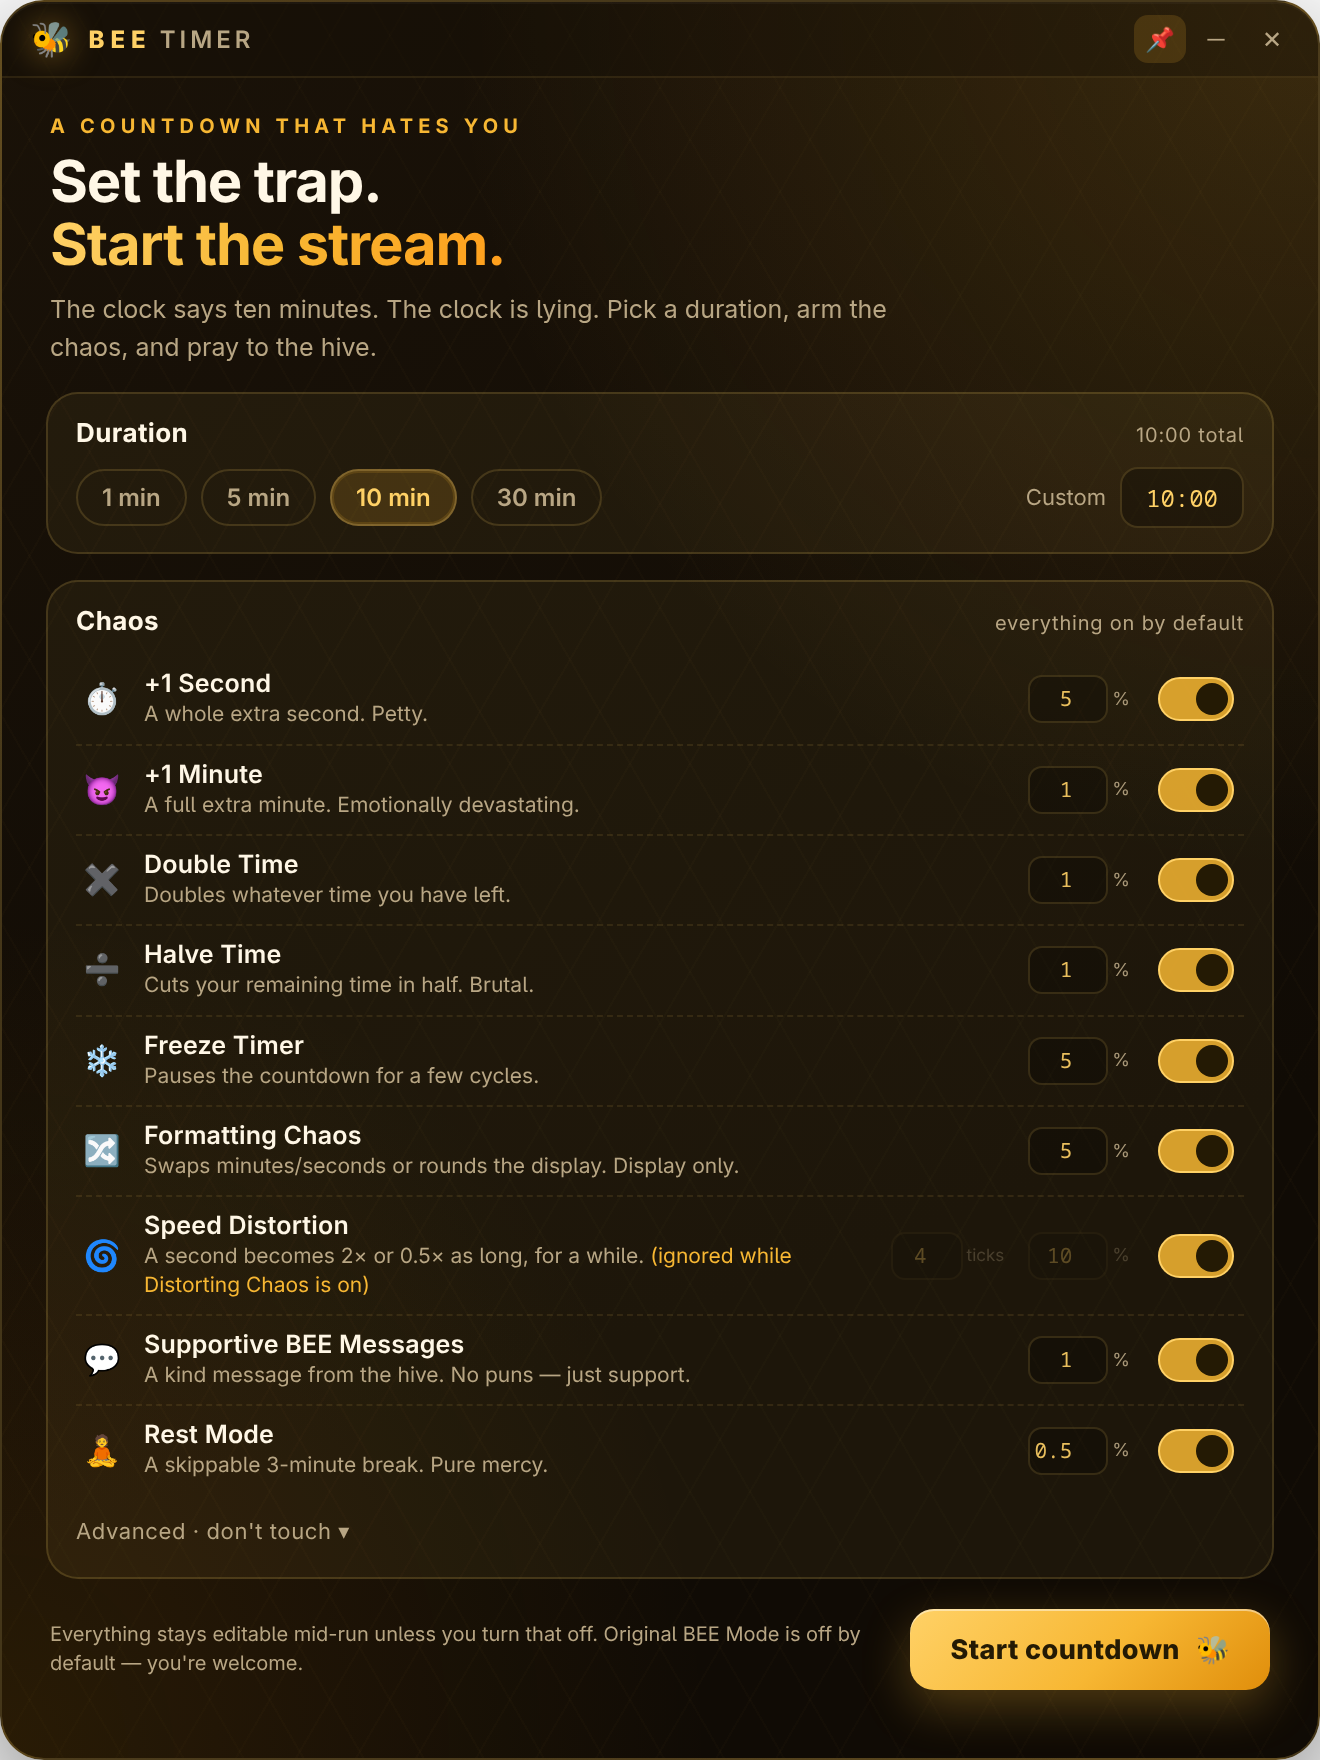
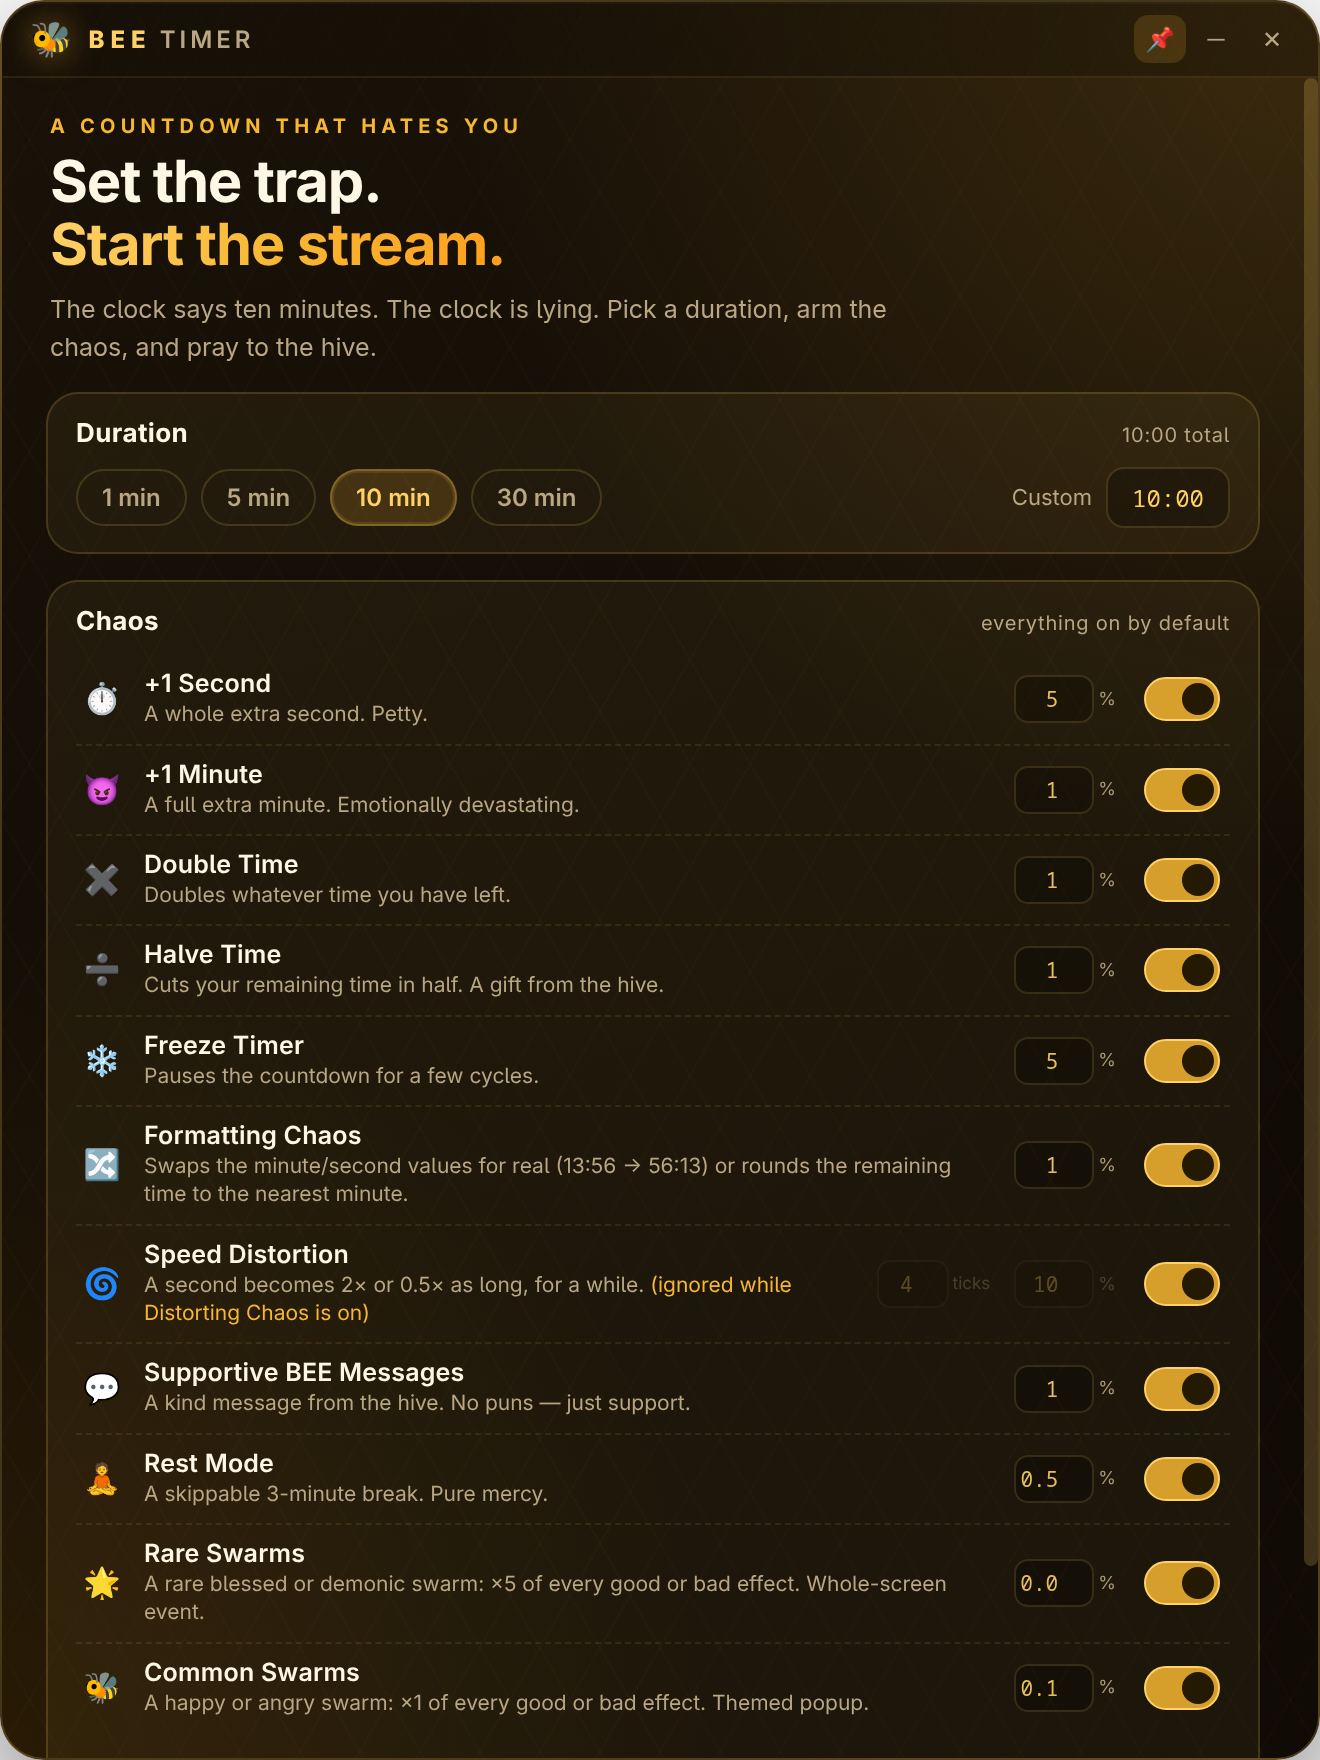
fix: formatting chaos default 1%/tick + v1->v2 migration; v0.1.9
Real swap/round at 5% per tick inflated the timer far too aggressively.
New default is 1%; existing schema-v1 configs still on the old 5% default are
migrated once (custom v2 values preserved). Added migration tests and refreshed
screenshots. 24/24 tests pass.

diff --git a/src/main/config-store.js b/src/main/config-store.js
@@ -11,7 +11,7 @@ const { app } = require('electron');
  * into the Advanced section by design.
  */
 const DEFAULTS = Object.freeze({
-  schemaVersion: 1,
+  schemaVersion: 2,
   onboarded: false,
   durationMs: 10 * 60 * 1000,
   tickBaseMs: 1000,
@@ -24,7 +24,7 @@ const DEFAULTS = Object.freeze({
     doubleTime:     { enabled: true,  chancePct: 1 },
     halveTime:      { enabled: true,  chancePct: 1 },
     freeze:         { enabled: true,  chancePct: 5, cycles: 5 },
-    formatChaos:    { enabled: true,  chancePct: 5, swapMinSec: true, roundNearestMinute: true, durationTicks: 3 },
+    formatChaos:    { enabled: true,  chancePct: 1, swapMinSec: true, roundNearestMinute: true, durationTicks: 3 },
     speedDistortion:{ enabled: true,  chancePct: 10, multipliers: [0.5, 2], durationTicks: 4 },
     distortingChaos:{ enabled: true,  chancePct: 1 },
     windowChaos:    { enabled: false, chancePct: 1, marginPx: 40 },
@@ -108,13 +108,20 @@ function sanitizeConfig(input) {
   // Distorting Chaos only makes sense while Speed Distortion is enabled.
   if (!features.speedDistortion.enabled) features.distortingChaos.enabled = false;
 
+  // v1 -> v2: Formatting Chaos defaulted to 5% per tick, which made the real
+  // swap/round fire far too often. Migrate configs that still carry the old
+  // default; a deliberately customised value in a v2 config is preserved.
+  if (Number(raw.schemaVersion || 1) < 2 && features.formatChaos.chancePct === 5) {
+    features.formatChaos.chancePct = 1;
+  }
+
   const appearance = raw.appearance && typeof raw.appearance === 'object' ? raw.appearance : {};
   const win = raw.window && typeof raw.window === 'object' ? raw.window : {};
   const x = typeof win.x === 'number' && Number.isFinite(win.x) ? Math.round(win.x) : null;
   const y = typeof win.y === 'number' && Number.isFinite(win.y) ? Math.round(win.y) : null;
 
   return {
-    schemaVersion: 1,
+    schemaVersion: 2,
     onboarded: bool(raw.onboarded, DEFAULTS.onboarded),
     durationMs: Math.round(num(raw.durationMs, 5000, DEFAULTS.maxRemainingMs, DEFAULTS.durationMs)),
     tickBaseMs: 1000,

diff --git a/README.md b/README.md
@@ -45,7 +45,7 @@ Every feature is independently toggleable and has a per-tick probability you can
 | ✖ Double Time | 1% | **On** | Doubles remaining time (capped at 24h). |
 | ➗ Halve Time | 1% | **On** | Cuts remaining time in half — a welcome mercy. |
 | ❄ Freeze Timer | 5% | **On** | Pauses the countdown for 5 cycles. |
-| 🔀 Formatting Chaos | 5% | **On** | Swaps the **actual** minute/second values (13:56 → 56:13, then counts down 56:12, 56:11…), or rounds the remaining time to the nearest minute (also a real change, so the clock keeps ticking). |
+| 🔀 Formatting Chaos | 1% | **On** | Swaps the **actual** minute/second values (13:56 → 56:13, then counts down 56:12, 56:11…), or rounds the remaining time to the nearest minute (also a real change, so the clock keeps ticking). |
 | 🌀 Speed Distortion | 10% | **On** | **Tick speed** changes: each second passes 0.5× or 2× as fast, for a configurable number of ticks (default 4). This does *not* change the time value — that's Double Time. |
 | ♾ Distorting Chaos | 1% | **On** | Makes speed distortion permanent and compounding (2× → 4× → 8×, or back down with 0.5×). Requires Speed Distortion; while on, its own chance replaces Speed Distortion's chance/duration. |
 | 💬 Supportive BEE Messages | 1% | **On** | A kind, encouraging message from the hive (no puns). Desktop notification plus in-app toast. |
@@ -106,7 +106,7 @@ curl -fsSL https://raw.githubusercontent.com/nu-code-dev/bee-timer/main/install.
 - optional interactive prompts, defaulting to **No** (and reading from `/dev/tty`, so `curl | bash` still works): install `mako` on Arch when no notification daemon is running (other distros get package-manager advice), and append BEE Timer window rules to your Hyprland config (Lua `hyprland.lua` when present, legacy `hyprland.conf` otherwise). The rule edit backs the file up, skips duplicate rules, and runs `hyprctl reload` when available.
 - unattended installs: `BEE_TIMER_YES=1` accepts both prompts; with no TTY the answers stay No
 - uninstall with: `curl -fsSL https://raw.githubusercontent.com/nu-code-dev/bee-timer/main/install.sh | bash -s -- --uninstall` — this also removes the BEE Timer rule block the installer added to your Hyprland config, leaving the rest of the file and your app config untouched
-- `BEE_TIMER_PREFIX=/usr/local` with `sudo` for a system-wide install, `BEE_TIMER_VERSION=0.1.8` to pin a release
+- `BEE_TIMER_PREFIX=/usr/local` with `sudo` for a system-wide install, `BEE_TIMER_VERSION=0.1.9` to pin a release
 - completely optional — the AUR package, AppImage, `.deb`, and source builds below all still work
 - the same setup notes (notification-daemon status, copyable Hyprland snippets, installed paths, uninstall command) are inside the app under **Settings → Setup & integration**
 
@@ -125,21 +125,21 @@ That installs the release AppImage to `/opt/bee-timer/` behind a `/usr/bin/bee-t
 
 ### Direct download (Linux)
 
-Grab `bee-timer-0.1.8-x86_64.AppImage` or `bee-timer-0.1.8-amd64.deb` from [Releases](https://github.com/nu-code-dev/bee-timer/releases) (tag `v0.1.8`):
+Grab `bee-timer-0.1.9-x86_64.AppImage` or `bee-timer-0.1.9-amd64.deb` from [Releases](https://github.com/nu-code-dev/bee-timer/releases) (tag `v0.1.9`):
 
 ```bash
 # AppImage
-chmod +x bee-timer-0.1.8-x86_64.AppImage
-./bee-timer-0.1.8-x86_64.AppImage
+chmod +x bee-timer-0.1.9-x86_64.AppImage
+./bee-timer-0.1.9-x86_64.AppImage
 
 # Debian / Ubuntu
-sudo apt install ./bee-timer-0.1.8-amd64.deb
+sudo apt install ./bee-timer-0.1.9-amd64.deb
 ```
 
 <a id="windows"></a>
 ### Windows
 
-Download the [`bee-timer-0.1.8-x64.exe`](https://github.com/nu-code-dev/bee-timer/releases/tag/v0.1.3) NSIS installer from [Releases](https://github.com/nu-code-dev/bee-timer/releases). It is built by GitHub Actions on every release and is **unsigned**:
+Download the [`bee-timer-0.1.9-x64.exe`](https://github.com/nu-code-dev/bee-timer/releases/tag/v0.1.3) NSIS installer from [Releases](https://github.com/nu-code-dev/bee-timer/releases). It is built by GitHub Actions on every release and is **unsigned**:
 
 - SmartScreen will show *"Windows protected your PC"* → click **More info** → **Run anyway**.
 - Windows builds are **x64 only** and are CI-produced; they are not smoke-tested on real Windows hardware by the maintainer yet.
@@ -147,7 +147,7 @@ Download the [`bee-timer-0.1.8-x64.exe`](https://github.com/nu-code-dev/bee-time
 <a id="macos"></a>
 ### macOS
 
-Download the [`bee-timer-0.1.8-arm64.dmg`](https://github.com/nu-code-dev/bee-timer/releases/tag/v0.1.3) disk image from [Releases](https://github.com/nu-code-dev/bee-timer/releases). It is **Apple Silicon only** (the CI runner is `macos-latest`/arm64), unsigned and not notarized:
+Download the [`bee-timer-0.1.9-arm64.dmg`](https://github.com/nu-code-dev/bee-timer/releases/tag/v0.1.3) disk image from [Releases](https://github.com/nu-code-dev/bee-timer/releases). It is **Apple Silicon only** (the CI runner is `macos-latest`/arm64), unsigned and not notarized:
 
 - Gatekeeper will block the app → right-click the app → **Open**, or allow it under **System Settings → Privacy & Security**.
 - Intel Macs would need a separate build (not configured in CI yet); building from source below also works.
@@ -245,7 +245,7 @@ npm run dist:win     # Windows installer — run on Windows or CI
 npm run dist:mac     # macOS .dmg — run on macOS or CI
 ```
 
-Linux artifact names are pinned by `build.artifactName = "bee-timer-${version}-${arch}.${ext}"`: `dist/bee-timer-0.1.8-x86_64.AppImage` (AppImage) and `dist/bee-timer-0.1.8-amd64.deb` (Debian package). Cross-platform builds are out of scope locally — the [release workflow](.github/workflows/release.yml) builds each OS on its own runner and attaches the artifacts to a GitHub Release.
+Linux artifact names are pinned by `build.artifactName = "bee-timer-${version}-${arch}.${ext}"`: `dist/bee-timer-0.1.9-x86_64.AppImage` (AppImage) and `dist/bee-timer-0.1.9-amd64.deb` (Debian package). Cross-platform builds are out of scope locally — the [release workflow](.github/workflows/release.yml) builds each OS on its own runner and attaches the artifacts to a GitHub Release.
 
 ## Testing
 

diff --git a/docs/CONFIG.md b/docs/CONFIG.md
@@ -42,7 +42,7 @@ Every feature object has `enabled` (boolean) and `chancePct` (number, 0–100, t
 | `doubleTime` | `true` | `1` | — | Doubles remaining time, capped at 24h. |
 | `halveTime` | `true` | `1` | — | Cuts remaining time in half (never below 1 second until the timer ends). A mercy, not a curse. |
 | `freeze` | `true` | `5` | `cycles`: `5` (1–60) | Pauses the countdown for N ticks. |
-| `formatChaos` | `true` | `5` | `swapMinSec`: `true`; `roundNearestMinute`: `true`; `durationTicks`: legacy/unused | **Both options are real time mutations.** Swap trades the minute and second values (13:56 → 56:13) and the clock then counts down normally (56:12, 56:11…); with an hours display it swaps hours↔minutes instead. Round snaps the remaining time to the nearest minute (e.g. 10:19 → 10:00), after which the countdown continues normally. |
+| `formatChaos` | `true` | `1` | `swapMinSec`: `true`; `roundNearestMinute`: `true`; `durationTicks`: legacy/unused | **Both options are real time mutations.** Swap trades the minute and second values (13:56 → 56:13) and the clock then counts down normally (56:12, 56:11…); with an hours display it swaps hours↔minutes instead. Round snaps the remaining time to the nearest minute (e.g. 10:19 → 10:00), after which the countdown continues normally. |
 | `speedDistortion` | `true` | `10` | `multipliers`: `[0.5, 2]` (only 0.5 and 2 are valid); `durationTicks`: `4` (1–60, editable in Settings) | Scales the real length of the next N ticks (**tick speed only** — it never changes the remaining time value). 0.5× = 2s real per game second; 2× = 0.5s real. |
 | `distortingChaos` | `true` | `1` | — | Only active while `speedDistortion.enabled` is true (the sanitizer forces it off otherwise). Makes speed distortion **permanent and compounding**: each trigger multiplies the current speed (1× → 2× → 4×, or back down with 0.5×). While enabled, `speedDistortion`'s chance and `durationTicks` are ignored — this chance is used instead, and the speed never expires. |
 | `windowChaos` | `false` | `1` | `marginPx`: `40` (0–400) | Randomly moves the window within the current monitor's work area (uses `hyprctl eval` on Hyprland when native moves are ignored). Hidden under "Advanced · don't touch". |
@@ -89,7 +89,7 @@ Every feature object has `enabled` (boolean) and `chancePct` (number, 0–100, t
     "doubleTime":      { "enabled": true,  "chancePct": 1 },
     "halveTime":       { "enabled": true,  "chancePct": 1 },
     "freeze":          { "enabled": true,  "chancePct": 5, "cycles": 5 },
-    "formatChaos":     { "enabled": true,  "chancePct": 5, "swapMinSec": true, "roundNearestMinute": true, "durationTicks": 3 },
+    "formatChaos":     { "enabled": true,  "chancePct": 1, "swapMinSec": true, "roundNearestMinute": true, "durationTicks": 3 },
     "speedDistortion": { "enabled": true,  "chancePct": 10, "multipliers": [0.5, 2], "durationTicks": 4 },
     "distortingChaos": { "enabled": true,  "chancePct": 1 },
     "windowChaos":     { "enabled": false, "chancePct": 1, "marginPx": 40 },

diff --git a/docs/HYPRLAND.md b/docs/HYPRLAND.md
@@ -26,7 +26,7 @@ So if you are on a normal Hyprland session with XWayland enabled (the default), 
 ```bash
 BEE_TIMER_OZONE=wayland bee-timer
 # or for the AppImage:
-BEE_TIMER_OZONE=wayland ./bee-timer-0.1.8-x86_64.AppImage
+BEE_TIMER_OZONE=wayland ./bee-timer-0.1.9-x86_64.AppImage
 ```
 
 Any value other than `wayland` is treated as X11. The AUR wrapper passes `BEE_TIMER_OZONE` through, so you can export it from your shell or set it in the `.desktop` `Exec=` line. XWayland must be enabled in your Hyprland config:

diff --git a/CHANGELOG.md b/CHANGELOG.md
@@ -7,6 +7,10 @@ and this project adheres to [Semantic Versioning](https://semver.org/spec/v2.0.0
 
 ## [Unreleased]
 
+Nothing yet. The hive is resting.
+
+## [0.1.9] - 2026-11-22
+
 ### Changed
 
 - `packaging/arch/`: bumped `bee-timer-bin` to 0.1.8 with the verified release
